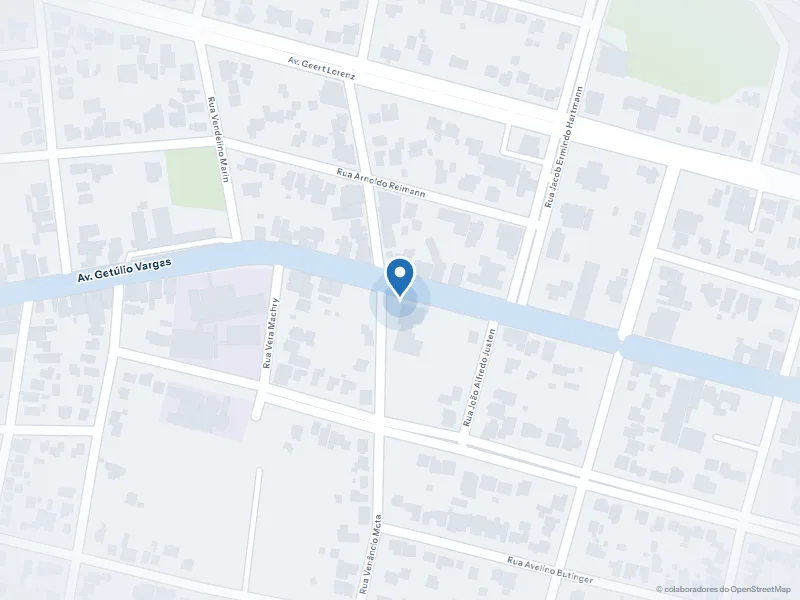
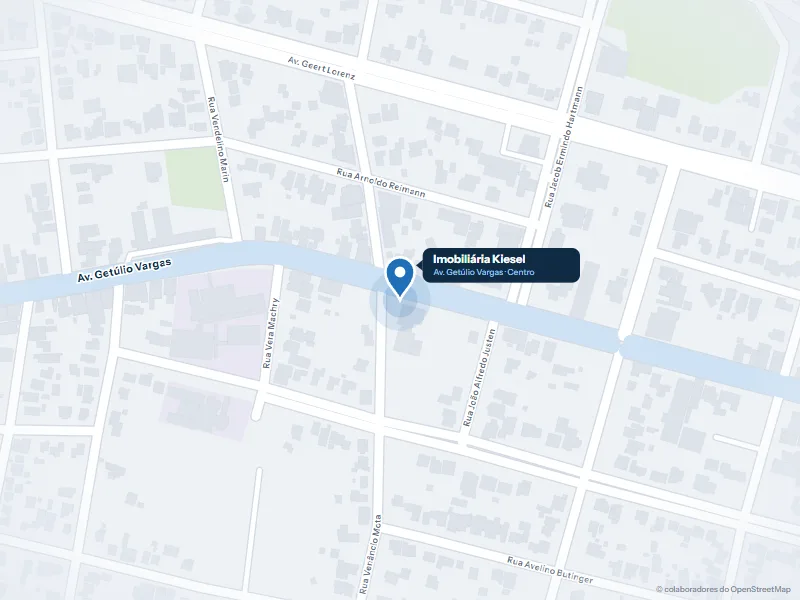
Página inicial: localização da Kiesel (mapa com o pino e o nome no escritório, Como chegar) no lugar da foto do Centro; botões alinhados

Changed region(s): [[0.5, 0.39, 0.75, 0.48]]

diff --git a/index.html b/index.html
@@ -390,8 +390,8 @@ agende uma visita e conheça o espaço que pode impulsionar o crescimento da sua
 <section class="secao" id="sobre-breve">
   <div class="miolo">
     <div class="manifesto">
-      <figure class="quadro quadro-foto rv"><img src="assets/fotos/centro-1600.webp" srcset="assets/fotos/centro-800.webp 800w, assets/fotos/centro-1600.webp 1600w" sizes="(max-width:860px) 100vw, 50vw" width="1600" height="900" alt="Centro de São Martinho visto do alto, onde fica o escritório da Imobiliária Kiesel" loading="lazy" decoding="async"><figcaption class="selo-mapa"><img src="assets/marca-kiesel-400.webp" width="400" height="194" alt="" loading="lazy"><b>Av. Getúlio Vargas, Centro</b><span>São Martinho/RS · CRECI 45.125/RS</span></figcaption></figure>
-      <div><span class="mono rv">A Imobiliária Kiesel</span><p class="grande rv" style="margin-top:10px">Por trás de cada negócio, <em>uma história de respeito e confiança.</em></p><p class="desde rv" style="margin-top:16px">Atuamos no mercado desde fevereiro de 2014.</p><p class="rv" style="margin-top:10px">A Kiesel Negócios Imobiliários atende São Martinho, o interior e os municípios vizinhos com casas, terrenos, chácaras, áreas rurais e salas comerciais. Toda a carteira está neste site com preço, fotos e descrição.</p><p class="rv" style="margin-top:22px"><a class="btn btn-azul" href="sobre.html">Conheça a Imobiliária Kiesel <span class="seta"><svg viewBox="0 0 24 24" fill="none" stroke="currentColor" stroke-width="1.5" aria-hidden="true"><path d="M5 12h14M13 6l6 6-6 6"/></svg></span></a> <a class="btn btn-contorno" href="contato.html" style="margin-left:6px">Fale conosco</a></p></div>
+      <figure class="quadro quadro-foto quadro-local rv"><a class="local-mapa" href="https://www.google.com/maps/search/?api=1&amp;query=NEG%C3%93CIOS%20IMOBILI%C3%81RIOS%20KIESEL%2C%20S%C3%A3o%20Martinho%20-%20RS" target="_blank" rel="noopener" aria-label="Ver a localização da Imobiliária Kiesel no Google Maps"><img src="assets/fotos/mapa-kiesel.webp" srcset="assets/fotos/mapa-kiesel-800.webp 800w, assets/fotos/mapa-kiesel.webp 2400w" sizes="(max-width:860px) 100vw, 50vw" width="1200" height="900" alt="Mapa com a localização da Imobiliária Kiesel na Avenida Getúlio Vargas, Centro de São Martinho" loading="lazy" decoding="async"></a><figcaption class="selo-mapa"><img src="assets/marca-kiesel-400.webp" width="400" height="194" alt="" loading="lazy"><b>Av. Getúlio Vargas, Centro</b><span>São Martinho/RS · CEP 98690-000</span><a class="local-ir" href="https://www.google.com/maps/dir/?api=1&amp;destination=NEG%C3%93CIOS%20IMOBILI%C3%81RIOS%20KIESEL%2C%20S%C3%A3o%20Martinho%20-%20RS" target="_blank" rel="noopener"><svg viewBox="0 0 24 24" fill="none" stroke="currentColor" stroke-width="1.6" aria-hidden="true"><path d="M12 21s-7-6.1-7-11.5a7 7 0 0 1 14 0C19 14.9 12 21 12 21z"/><circle cx="12" cy="9.5" r="2.5"/></svg>Como chegar</a></figcaption></figure>
+      <div><span class="mono rv">A Imobiliária Kiesel</span><p class="grande rv" style="margin-top:10px">Por trás de cada negócio, <em>uma história de respeito e confiança.</em></p><p class="desde rv" style="margin-top:16px">Atuamos no mercado desde fevereiro de 2014.</p><p class="rv" style="margin-top:10px">A Kiesel Negócios Imobiliários atende São Martinho, o interior e os municípios vizinhos com casas, terrenos, chácaras, áreas rurais e salas comerciais. Toda a carteira está neste site com preço, fotos e descrição.</p><div class="acoes-sobre rv"><a class="btn btn-azul" href="sobre.html">Conheça a Imobiliária Kiesel <span class="seta"><svg viewBox="0 0 24 24" fill="none" stroke="currentColor" stroke-width="1.5" aria-hidden="true"><path d="M5 12h14M13 6l6 6-6 6"/></svg></span></a><a class="btn btn-contorno" href="contato.html">Fale conosco</a></div></div>
     </div>
   </div>
 </section>

diff --git a/modelo.js b/modelo.js
@@ -212,8 +212,8 @@
 <section class="secao" id="sobre-breve">
   <div class="miolo">
     <div class="manifesto">
-      <figure class="quadro quadro-foto rv"><img src="assets/fotos/centro-1600.webp" srcset="assets/fotos/centro-800.webp 800w, assets/fotos/centro-1600.webp 1600w" sizes="(max-width:860px) 100vw, 50vw" width="1600" height="900" alt="Centro de São Martinho visto do alto, onde fica o escritório da Imobiliária Kiesel" loading="lazy" decoding="async"><figcaption class="selo-mapa"><img src="assets/marca-kiesel-400.webp" width="400" height="194" alt="" loading="lazy"><b>Av. Getúlio Vargas, Centro</b><span>São Martinho/RS · CRECI 45.125/RS</span></figcaption></figure>
-      <div><span class="mono rv">A Imobiliária Kiesel</span><p class="grande rv" style="margin-top:10px">Por trás de cada negócio, <em>uma história de respeito e confiança.</em></p><p class="desde rv" style="margin-top:16px">Atuamos no mercado desde fevereiro de 2014.</p><p class="rv" style="margin-top:10px">A Kiesel Negócios Imobiliários atende São Martinho, o interior e os municípios vizinhos com casas, terrenos, chácaras, áreas rurais e salas comerciais. Toda a carteira está neste site com preço, fotos e descrição.</p><p class="rv" style="margin-top:22px"><a class="btn btn-azul" href="sobre.html">Conheça a Imobiliária Kiesel <span class="seta">${ico.seta}</span></a> <a class="btn btn-contorno" href="contato.html" style="margin-left:6px">Fale conosco</a></p></div>
+      <figure class="quadro quadro-foto quadro-local rv"><a class="local-mapa" href="https://www.google.com/maps/search/?api=1&amp;query=NEG%C3%93CIOS%20IMOBILI%C3%81RIOS%20KIESEL%2C%20S%C3%A3o%20Martinho%20-%20RS" target="_blank" rel="noopener" aria-label="Ver a localização da Imobiliária Kiesel no Google Maps"><img src="assets/fotos/mapa-kiesel.webp" srcset="assets/fotos/mapa-kiesel-800.webp 800w, assets/fotos/mapa-kiesel.webp 2400w" sizes="(max-width:860px) 100vw, 50vw" width="1200" height="900" alt="Mapa com a localização da Imobiliária Kiesel na Avenida Getúlio Vargas, Centro de São Martinho" loading="lazy" decoding="async"></a><figcaption class="selo-mapa"><img src="assets/marca-kiesel-400.webp" width="400" height="194" alt="" loading="lazy"><b>Av. Getúlio Vargas, Centro</b><span>São Martinho/RS · CEP 98690-000</span><a class="local-ir" href="https://www.google.com/maps/dir/?api=1&amp;destination=NEG%C3%93CIOS%20IMOBILI%C3%81RIOS%20KIESEL%2C%20S%C3%A3o%20Martinho%20-%20RS" target="_blank" rel="noopener">${PINO}Como chegar</a></figcaption></figure>
+      <div><span class="mono rv">A Imobiliária Kiesel</span><p class="grande rv" style="margin-top:10px">Por trás de cada negócio, <em>uma história de respeito e confiança.</em></p><p class="desde rv" style="margin-top:16px">Atuamos no mercado desde fevereiro de 2014.</p><p class="rv" style="margin-top:10px">A Kiesel Negócios Imobiliários atende São Martinho, o interior e os municípios vizinhos com casas, terrenos, chácaras, áreas rurais e salas comerciais. Toda a carteira está neste site com preço, fotos e descrição.</p><div class="acoes-sobre rv"><a class="btn btn-azul" href="sobre.html">Conheça a Imobiliária Kiesel <span class="seta">${ico.seta}</span></a><a class="btn btn-contorno" href="contato.html">Fale conosco</a></div></div>
     </div>
   </div>
 </section>

diff --git a/estilo.css b/estilo.css
@@ -611,3 +611,14 @@ img[src$="logo-topo.png"],img[src$="marca-kiesel-400.webp"]{height:auto}
 .pag-topo.pag-foto::before{width:60%;background-image:var(--fundo-img);background-position:center;background-size:cover;-webkit-mask-image:linear-gradient(90deg,transparent 0%,#000 38%);mask-image:linear-gradient(90deg,transparent 0%,#000 38%)}
 .pag-topo.pag-foto::after{background:linear-gradient(90deg,var(--fundo) 40%,rgba(244,246,249,.55) 58%,rgba(244,246,249,0) 85%)}
 @media (max-width:760px){.pag-topo.pag-foto::before{width:100%;opacity:1;background-image:var(--fundo-img-p,var(--fundo-img));-webkit-mask-image:none;mask-image:none}.pag-topo.pag-foto::after{background:linear-gradient(180deg,rgba(244,246,249,.95),rgba(244,246,249,.86))}}
+
+/* página inicial: localização da Kiesel (mapa com o pino no escritório) no lugar da foto do Centro */
+.quadro-local .local-mapa{position:absolute;inset:0;display:block}
+.quadro-local .local-mapa img{width:100%;height:100%;object-fit:cover;object-position:50% 46%;transition:transform .6s var(--ease)}
+.quadro-local .local-mapa:hover img{transform:scale(1.03)}
+.quadro-local .selo-mapa{z-index:2}
+.quadro-local .local-ir{display:inline-flex;align-items:center;gap:6px;margin-top:8px;font-size:13.5px;font-weight:600;color:var(--azul);text-decoration:none}
+.quadro-local .local-ir svg{width:16px;height:16px}
+.quadro-local .local-ir:hover{text-decoration:underline}
+.acoes-sobre{display:flex;flex-wrap:wrap;gap:10px;margin-top:22px}
+@media (max-width:560px){.quadro-local{aspect-ratio:auto;overflow:visible;background:none}.quadro-local .local-mapa{position:relative;inset:auto;height:250px;border-radius:var(--raio);overflow:hidden}.quadro-local .selo-mapa{position:relative;left:auto;bottom:auto;margin:-22px 12px 0;max-width:none}}

diff --git a/build/mapa.js b/build/mapa.js
@@ -55,6 +55,9 @@ ${rotulos}
   <circle r="46" fill="#1F6FB8" opacity=".12"/><circle r="26" fill="#1F6FB8" opacity=".18"/>
   <path d="M0 0 C -6 -14 -22 -24 -22 -42 A 22 22 0 0 1 22 -42 C 22 -24 6 -14 0 0 Z" fill="#1F6FB8" stroke="#fff" stroke-width="4"/>
   <circle cy="-42" r="8" fill="#fff"/>
+  <g transform="translate(34 -78)"><rect x="0" y="0" width="236" height="52" rx="12" fill="#0F2A44"/><path d="M-10 26 L0 18 L0 34 Z" fill="#0F2A44"/>
+    <text x="16" y="23" style="font:700 17px 'Instrument Sans',system-ui,sans-serif;fill:#fff">Imobiliária Kiesel</text>
+    <text x="16" y="41" style="font:500 12.5px 'Instrument Sans',system-ui,sans-serif;fill:#9CC4EA">Av. Getúlio Vargas · Centro</text></g>
 </g>
 <text x="${W - 14}" y="${H - 12}" text-anchor="end" style="font:500 12px 'Instrument Sans',system-ui,sans-serif;fill:#7A8796">© colaboradores do OpenStreetMap</text>
 </svg>`;
